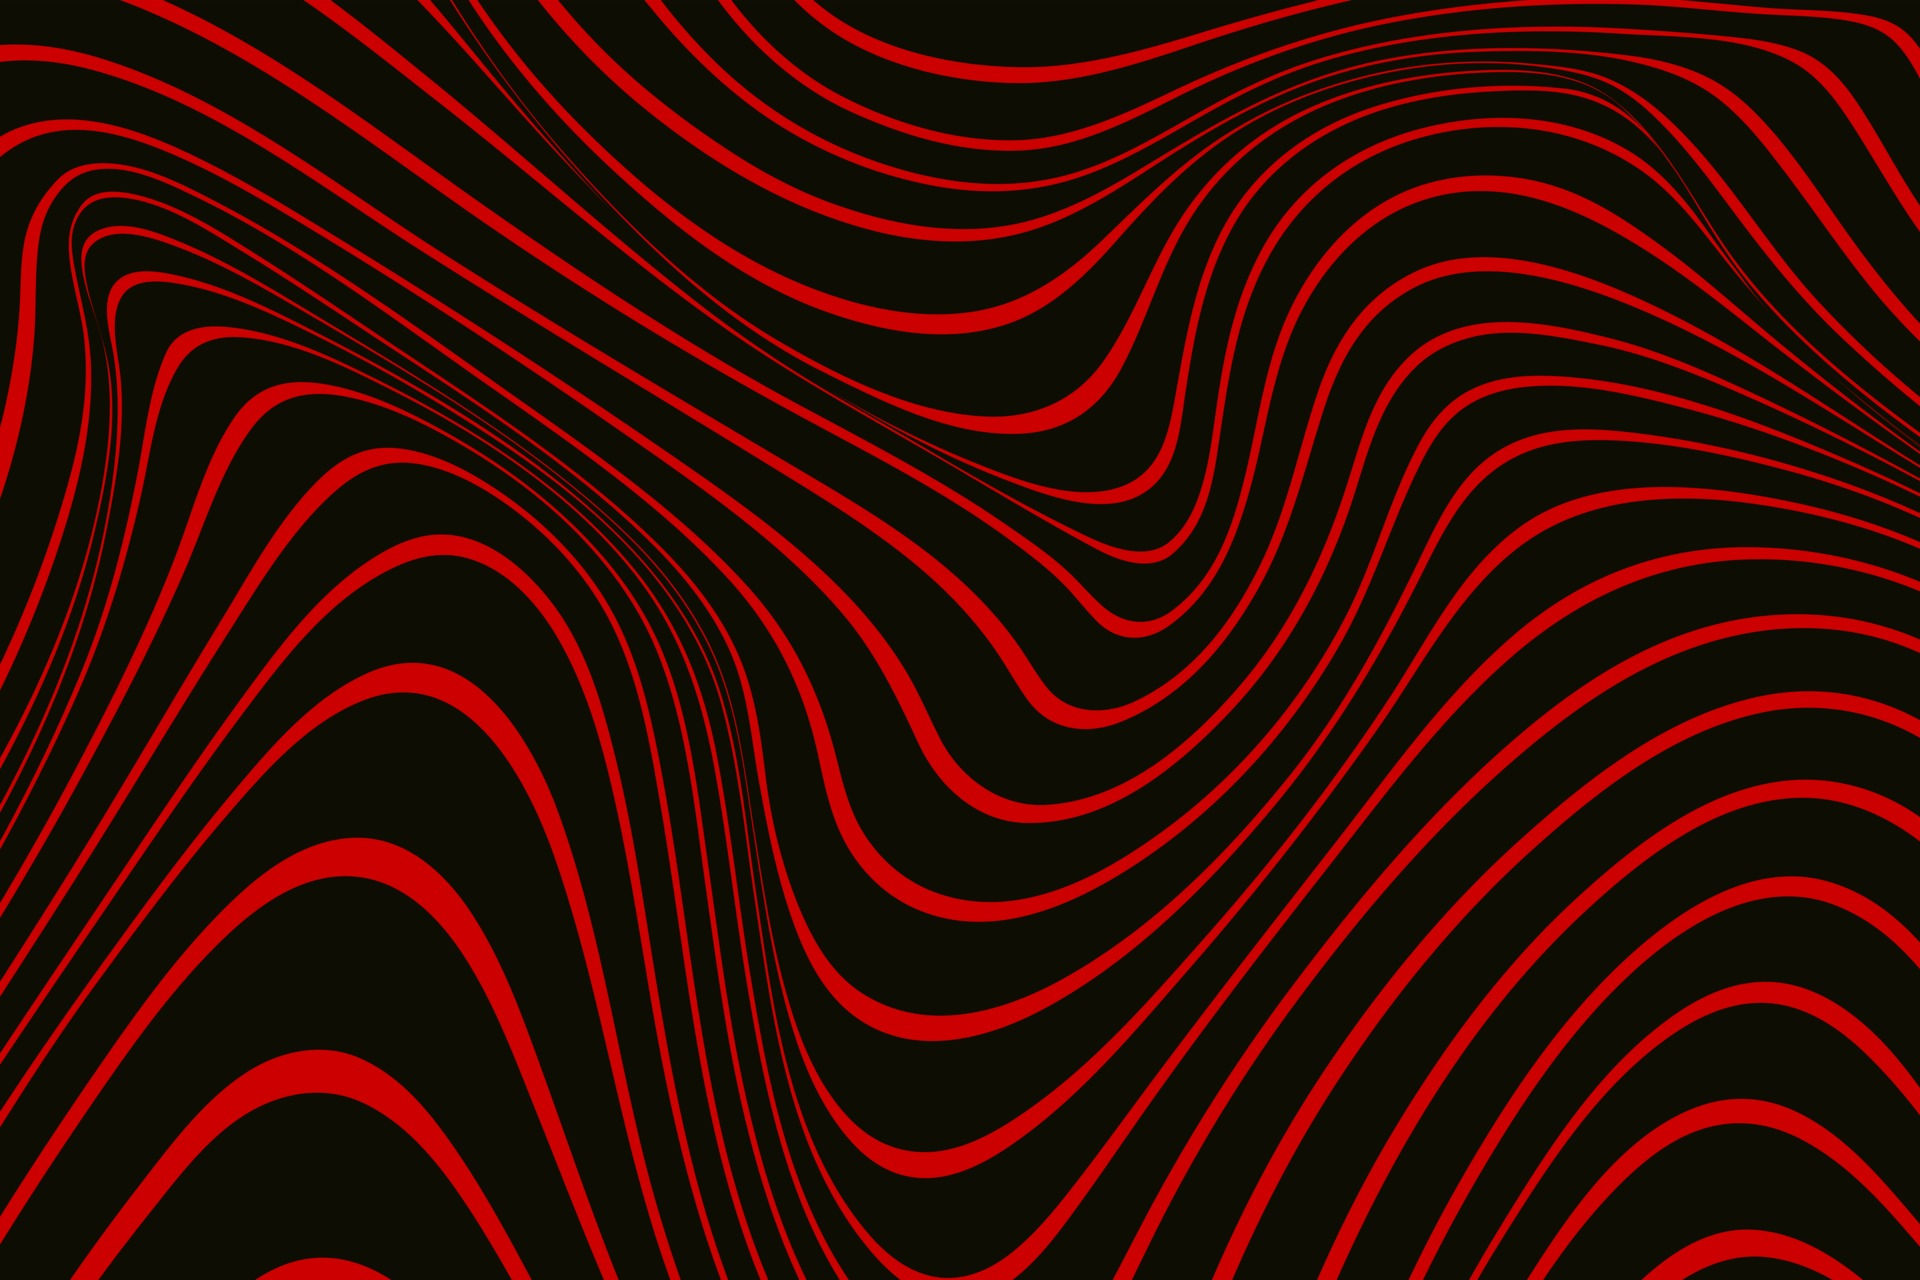
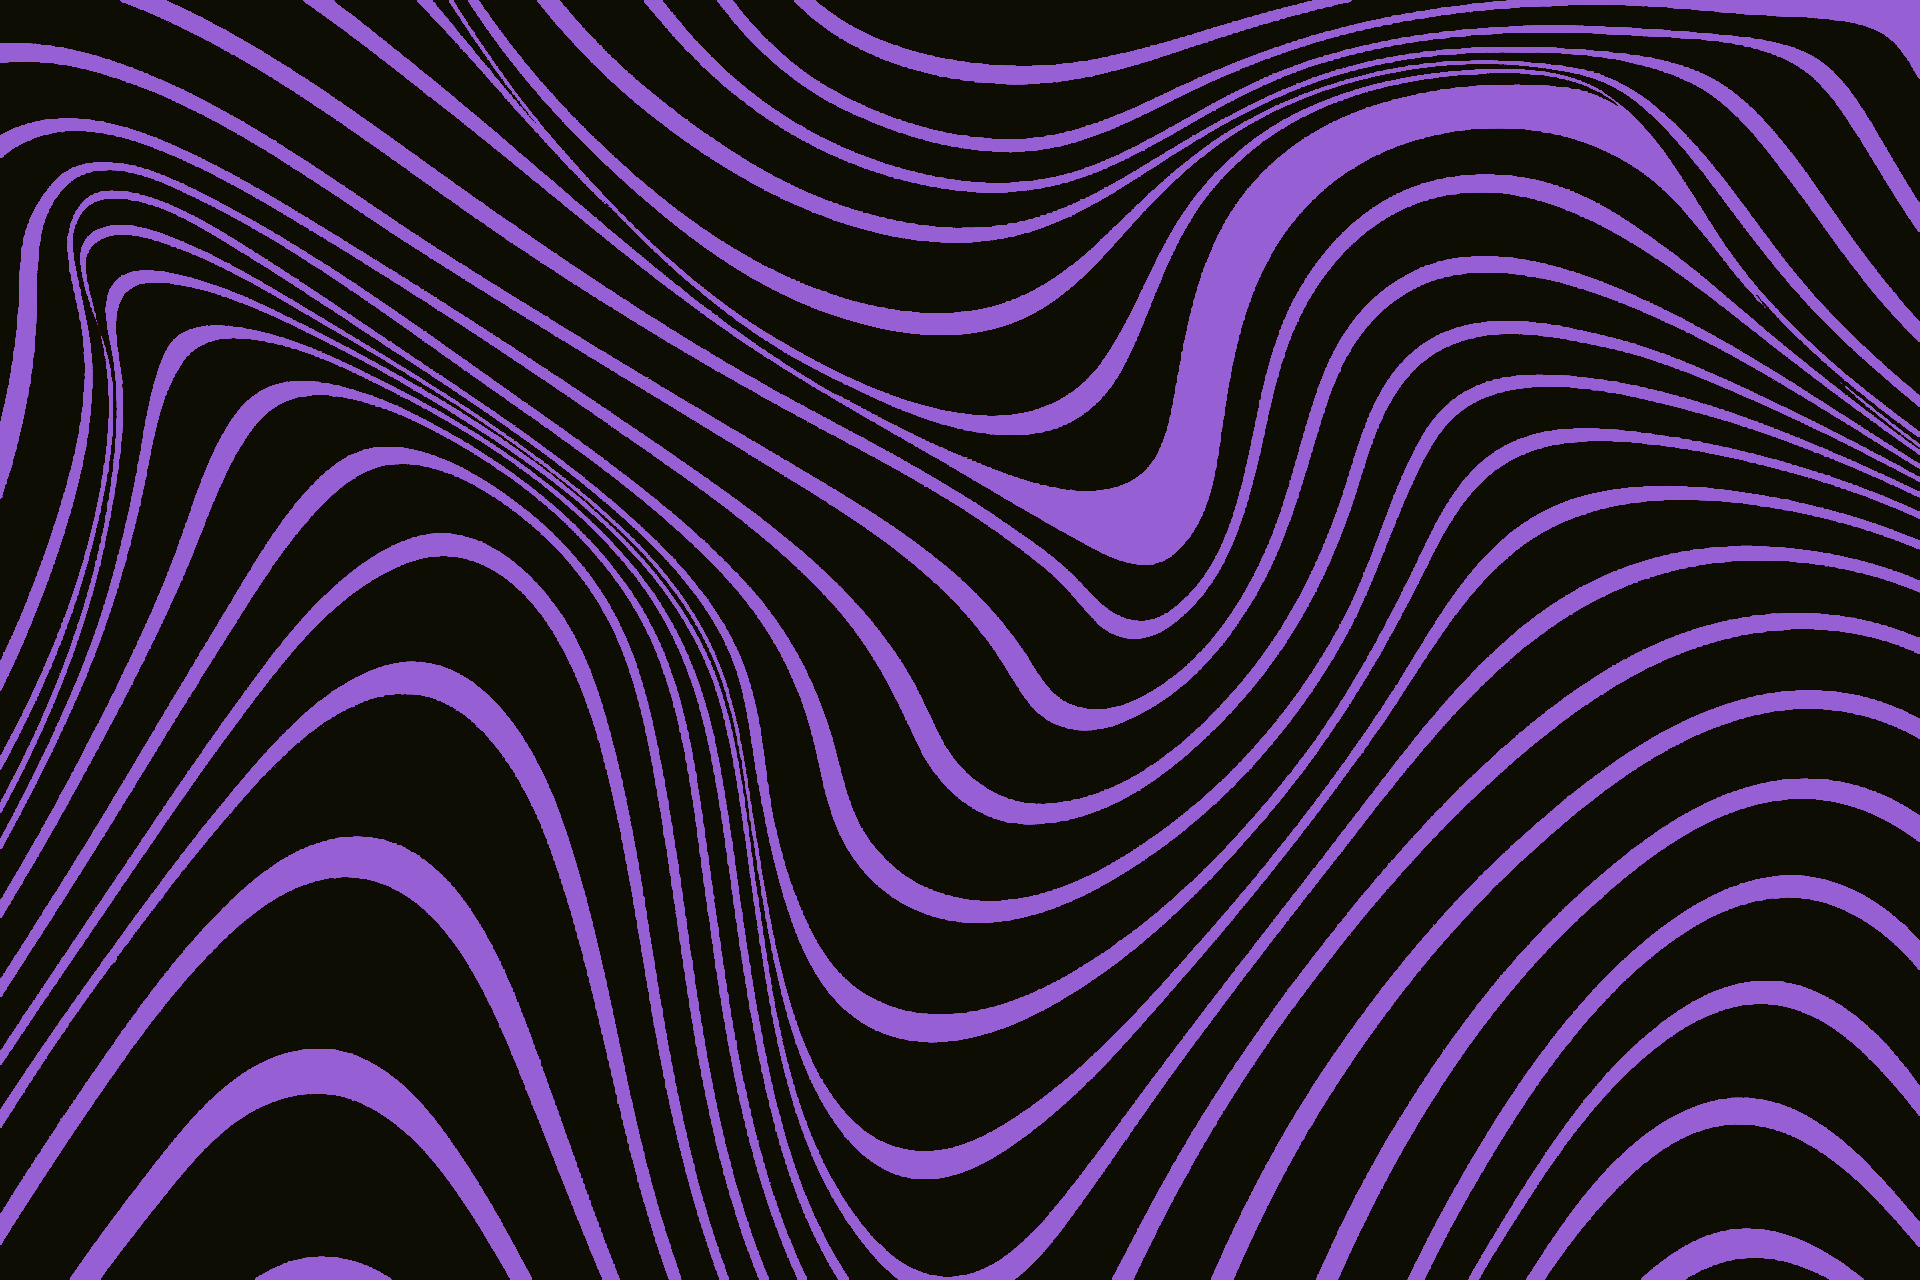
updates

diff --git a/js/createCard.js b/js/createCard.js
@@ -22,15 +22,17 @@ function createNormalCard(card){
             <p class="cardName">${card.name}</p>
             <p class="cardSubTitle" id="cardSubTitle_${card.id}">
               <span class="cardArchetype" id="archetype_${card.id}" onclick="searchByArchetype('${card.archetype}')" data-bs-toggle="modal" data-bs-target="#card_${card.id}" style="cursor: pointer"></span>
-              <span> ID ${card.id} </span>
               <br>
-              <span> Release Date ${card.misc_info[0].ocg_date} </span>
+              <span> ID : ${card.id} </span>
+              <br>
+              <span id"releaseDate_${card.id}"> OCG Release Date : ${card.misc_info[0].ocg_date} </span>
+              <br>
               <span id="releaseDateTCG_${card.id}"> </span>
+              <br>
             </p>
             <p class="cardDescription">
               ${card.desc} 
             </p>
-            <br>
             <p class="cardSets scrollspy" data-spy="scroll" id="cardSets_${card.id}">
             </p>
           </div>   
@@ -51,9 +53,9 @@ function createNormalCard(card){
 
  if (card.card_sets) {printCardSets(`cardSets_${card.id}`, card)}
 
+  // hasTcgReleaseDate(`releaseDate_${card.id}`, card)
 
 }
-
 
 
 // let levelOrRank =  
@@ -68,10 +70,16 @@ function hasArchetype (modalId, archetype) {
         // console.log("archetype is "+archetype)
         document.getElementById(`${modalId}`).innerHTML = `
         Archetype <span style="cursor pointer" >${archetype}</span>
-        <br>
-        <br>
         `
       }
+}
+
+function hasTcgReleaseDate (modalId, card) {
+  if (card.misc_info[0].tcg_date) {
+    document.getElementById(`releaseDate_${modalId}`).innerHTML = `
+    // TCG Release Date : ${card.misc_info[0].tcg_date}
+    `
+  }
 }
 
  
@@ -453,7 +461,7 @@ function printCardSets (modalId, card) {
               <th scope="col">Set</th>
               <th scope="col">Rarity</th>
               <th scope="col">Set Code</th>
-              <th scope="col" data-toggle="tooltip" data-placement="top" title="AVG Means average price for that card of that specific set">AVG* Price</th>
+              <th scope="col" data-toggle="tooltip" data-placement="top" title="AVG Means average price for that card of that specific set, the price is expresed in US dolars">AVG* Price</th>
             </tr>
           </thead>
           
@@ -472,7 +480,7 @@ function printCardSets (modalId, card) {
              <th scope="row"  class="cardSet" id="set_${card.id}" onclick="searchBySet(${i}, '${card.card_sets[i].set_name}')" data-bs-toggle="modal" data-bs-target="#card_${card.id}" style="cursor: pointer">${card.card_sets[i].set_name}</th>
              <td>${card.card_sets[i].set_rarity_code} ${card.card_sets[i].set_rarity}</td>
              <td>${card.card_sets[i].set_code}</td>
-             <td>${card.card_sets[i].set_price}</td>
+             <td>$${card.card_sets[i].set_price}</td>
            </tr>
     
     `
@@ -490,29 +498,30 @@ function createSet(sets) {
 
 	let setImage = setName.replace(/ /g, "_");
 	setImage = setImage.replace(/:/g,"_");
-
+  
 
   cardsSection.innerHTML += `
-        <div class="sets" id='${setCode}'>
+        <div class="sets" id='${setCode}' >
           <div class="setGrid" >
 
             <div class="setImage"> 
-              <button type="button" class="btn btn-primary" data-toggle="modal" data-target="#ModalID${setCode}">
-                <img src="https://static-3.studiobebop.net/ygo_data/set_images/${setImage}.jpg" class="card-img-bottom setImages" id='${setName}'  alt="set Image" srcset=""> 
+            <div class='cardInfo'>
+            <span onclick='cardSet(this.id)'><h5 class="purpleText"><a  style="cursor: pointer" id="${setCode}" class='getBySet' href="#"> ${setName} </a><br>${setQuantity} // ${setCode} //  ${setDate}</h5></span> 
+            </div>
+              <button type="button" class="btn" data-toggle="modal" data-target="#ModalID${setCode}">
+                <img src="https://static-7.studiobebop.net/ygo_data/set_images/${setImage}.jpg" onerror="this.src='error.gif';this.onerror='';" class="card-img-bottom setImages" id='${setName}'  alt="set Image" srcset=""> 
             
               </button>
             </div>
 
-            <div class='cardInfo'>
-            <span onclick='cardSet(this.id)'><h5><a  style="cursor: pointer" id="${setName}" class='getBySet' href="#"> ${setName} </a><br>${setQuantity} // ${setCode} //  ${setDate}</h5></span> 
-            </div>
+          
           
 
-            <div class="modal fade modalCardImage" id="ModalID${setImage}" class="close" data-dismiss="modal" tabindex="-1" role="dialog" aria-labelledby="exampleModalCenterTitle" aria-hidden="true">
+            <div class="modal fade modalCardImage" id="ModalID${setCode}" class="close" data-dismiss="modal" tabindex="-1" role="dialog" aria-labelledby="exampleModalCenterTitle" aria-hidden="true">
               <div class="modal-dialog modal-dialog-centered" role="document">
                 <div class="modal-content modalImage">
                   
-                  <img src="https://static-3.studiobebop.net/ygo_data/set_images/${setImage}.jpg" class="card-img-bottom setImages" id='${setName}' alt="${setName}" class="close" data-dismiss="modal">
+                  <img src="https://static-7.studiobebop.net/ygo_data/set_images/${setImage}.jpg" onerror="this.src='error.gif';this.onerror='';" class="card-img-bottom setImages" id='${setName}' alt="${setName}" class="close" data-dismiss="modal">
 
                 </div>
               </div>

diff --git a/css/styles.css b/css/styles.css
@@ -8,7 +8,7 @@ body {
 
  
 main {
-    background-color: rgba(218, 218, 218, 0.75);
+    background-color: rgba(44, 44, 44, 0.55);
     width: 100%;
     padding: 0 !important;
     
@@ -26,7 +26,7 @@ nav , .dropdown-menu, nav li a, .dropdown-item {
 
 .dropdown-menu :hover {
     background-color: rgb(0, 0, 0);
-    color:rgb(194, 34, 34)
+    color: rgb(139, 212, 80)
 }
 .custom-toggler.navbar-toggler {
     border-color: white;
@@ -38,15 +38,16 @@ nav , .dropdown-menu, nav li a, .dropdown-item {
 }
 
 .nav-link {
+    /* color: rgb(115,79,154); */
     color: white;
 }
 
 .nav-link:hover {
-    color: rgb(194, 34, 34);
+    color: rgb(139,212,80);
 }
 
 nav form button {
-    color:white !important;
+    color:rgb(139,212,80) !important;
     /* border-color:white !important;white */
 }
 
@@ -54,10 +55,19 @@ nav form button {
 
 /* TITLES SECTION  */
 #titlesSection {
-    background-color: rgba(218, 218, 218, 0.85);
-    width: 100%;
+  /* background-color: rgba(218, 218, 218, 0.85); */
+  background-color: rgba(0, 0, 0, 0.85);
+  /* color: rgb(150,95,212); */
+  color: white;
+  width: 100%;
+  font-family: CardTitle;
+  font-size: 18pt;
+  padding-left: 5px;
+  padding-right: 5px;
 
 }
+
+
 
 /* ####################################################################### */
 
@@ -120,15 +130,16 @@ form input {
     padding: 7px;
     font-size: 16px;
   }
-  
+
   input[type="text"] {
     /* background-color: #f1f1f1; */
     width: 100%;
+    color:  rgb(139,212,80)
   }
   
   input[type="submit"] {
-    background-color: DodgerBlue;
-    color: #fff;
+    background-color: rgb(150,95,212);
+    color:  rgb(139,212,80);
     cursor: pointer;
   }
   
@@ -149,41 +160,33 @@ form input {
   .autocomplete-items div {
     padding: 7px;
     cursor: pointer;
-    background-color: #000;
-    color: #fff;
+    background-color: rgb(29,26,47);
+    color: rgb(139,212,80);
     border-bottom: 1px solid #d4d4d4;
   }
   
   /*when hovering an item:*/
   .autocomplete-items div:hover {
-    background-color: #434242;
+    background-color:  rgb(115,79,154);
   }
   
   /*when navigating through the items using the arrow keys:*/
   .autocomplete-active {
-    background-color: DodgerBlue !important;
-    color: #ffffff;
+    background-color: rgb(115,79,154) !important;
+    color:  rgb(139,212,80);
   }
 
 /* ####################################################################### */
 
 
-  #titlesSection {
-    color: #000;
-    font-family: CardTitle;
-    font-size: 18pt;
-    background-color: rgba(255, 255, 255, 0.7);
-    padding-left: 5px;
-    padding-right: 5px;
-    /* padding: 10px; */
-  }
-
 
   /* FOOTER */
   footer {
-    background-color: rgba(255, 255, 255, 0.7);
+    background-color: rgba(29,26,47, 8.5);
+    color: #ffffff;
     justify-content: center;
     text-align: center;
+    padding: 20px 20px 20px 20px;
   }
   /* FIN DEL FOOTER */
 
@@ -195,9 +198,8 @@ form input {
 
   .card {
     width: 300px;
-    padding: 0;
-    padding: 7px;
-    background-color: rgba(255, 255, 255, 0);
+    padding: 6px 8px 6px 8px;
+    background-color: rgba(29,26,47, 0.55);
   }
 
   .modal {
@@ -208,6 +210,13 @@ form input {
   .modal-content{
     /* display: flex; */
     /* width: 80vh !important */
+    background-color: rgba(0, 0, 0, 0.85);
+    color: #fff;
+  }
+
+  .modal-content table {
+
+    color: #fff;
   }
 
   .scrollspy {
@@ -247,16 +256,33 @@ form input {
   }
 
   .cardArchetype span{
-    color: rgb(194, 34, 34);
+    color: rgb(139,212,80);
+  }
+
+  .cardArchetype span:hover{
+    color: rgb(150,95,212);
   }
 
   .cardSubTitle {
     padding: 0px 0px 10px 0px;
     font-size: 15pt;
+    align-items:center;
+  }
+  
+  .cardSubTitle span {
+    display: inline-flex;
+    /* display: flex;
+    align-items: center;
+    justify-content: space-between; */
   }
 
   .cardDescription{
     font-size: 15pt;
+  }
+
+  .setGrid a {
+    color: rgb(139,212,80)
+    
   }
 
   .iconsSprite{
@@ -526,5 +552,31 @@ form input {
   .setImage button {
     width: 250px;
     height: 400px;
+    background-color: rgba(0, 0, 0, 0.75);
+  }
+
+  .setImage .btn {
     background-color: rgba(0, 0, 0, 0);
+    border: none;
+  }
+/*   
+  .sets :hover{
+    background-color: rgba(115,79,154, 0.85) !important;
+  } */
+  
+  .sets {
+    width: min-content;
+    background-color: rgba(0, 0, 0, 0.85);
+    /* padding: 6px 8px 6px 8px; */
+  }
+
+
+  /* COLORED TEXT CLASSES */
+
+  .greenText {
+    color: rgb(139,212,80);
+  }
+
+  .purpleText{
+    color: 	rgb(150,95,212);
   }

diff --git a/js/main.js b/js/main.js
@@ -150,7 +150,7 @@ function searchCardsByNameOrDescription(value) {
 
 function searchByExactValue (field, value)  {     
   filteredCards = allCards.data.filter((card) => card[field] === value)
-  console.log(filteredCards)
+  // console.log(filteredCards)
 }
 
 // SEARCH BY SOME VALUE, FOR EXAMPLE
@@ -163,11 +163,15 @@ function searchByArchetype (value) {
 
 }
 
-function searchBySet (cardSetNumber, value) {
-  console.log("under construction 👨🏭")
-  // searchByExactValue(`card_sets[${cardSetNumber}].set_name`, value) 
-  // printCards(filteredCards.length, filteredCards, title)
+function searchBySet (card, set) {
+  console.log("searching set... "+ set)
+  if (card.card_sets){
+  const findBySet = (id) => allCards.data
+  .filter(x => x.id === id || x.set_name.some(set => id === set.id))
+  .map(y => ({...y, children: y.set_name.filter(set => id === set.id)}))
 
+    console.log(findBySet(set))
+  }
 }
 
 
@@ -216,7 +220,7 @@ function printCards(howMany, cards, title){
     let cards2print = []
     cards2print = cards
 
-    titlesSection.innerHTML = title + howMany + " cards"
+    titlesSection.innerHTML = title +"<span class='greenText'>" + howMany + " </span> cards"
     // console.log(cards2print)
 
     for (let i = 0; i <= (howMany-1); i++) {  
@@ -236,7 +240,7 @@ function printSets(howMany, sets, title){
   let cards2print = []
   cards2print = sets
 
-  titlesSection.innerHTML = title + howMany + " cards"
+  titlesSection.innerHTML = title +"<span class='greenText'>" + howMany + " </span> cards"
   // console.log(cards2print)
 
   for (let i = 0; i <= (howMany-1); i++) {  

diff --git a/index.html b/index.html
@@ -106,7 +106,8 @@ made with ♥ by @luqezr  |  |  || \ / || ( ) ||A_ _ |
       <!-- All the titles go here -->
   </div>
 
-  <div id="cardsSection" class="container-fluid row row-cols-2">
+  <!-- <div id="cardsSection" class="container-fluid row row-cols-6"> -->
+    <div id="cardsSection" class="container-fluid row ">
 
       <!-- All the cards/sets go here -->
   </div>
@@ -117,7 +118,7 @@ made with ♥ by @luqezr  |  |  || \ / || ( ) ||A_ _ |
   </main>
 
   <footer>
-     <p>YugiohTracker is made with 🖤 by @luqezr</p>
+     <span>YugiohTracker is made with 🖤 by @luqezr</span>
   </footer>
 
   <div id="scripts">
